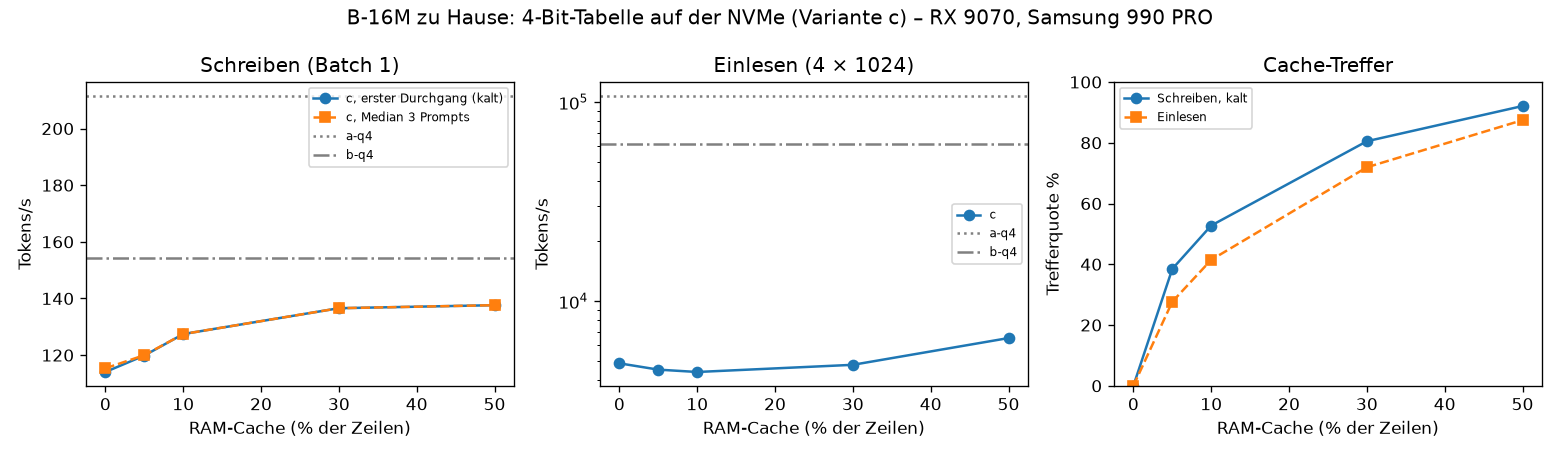
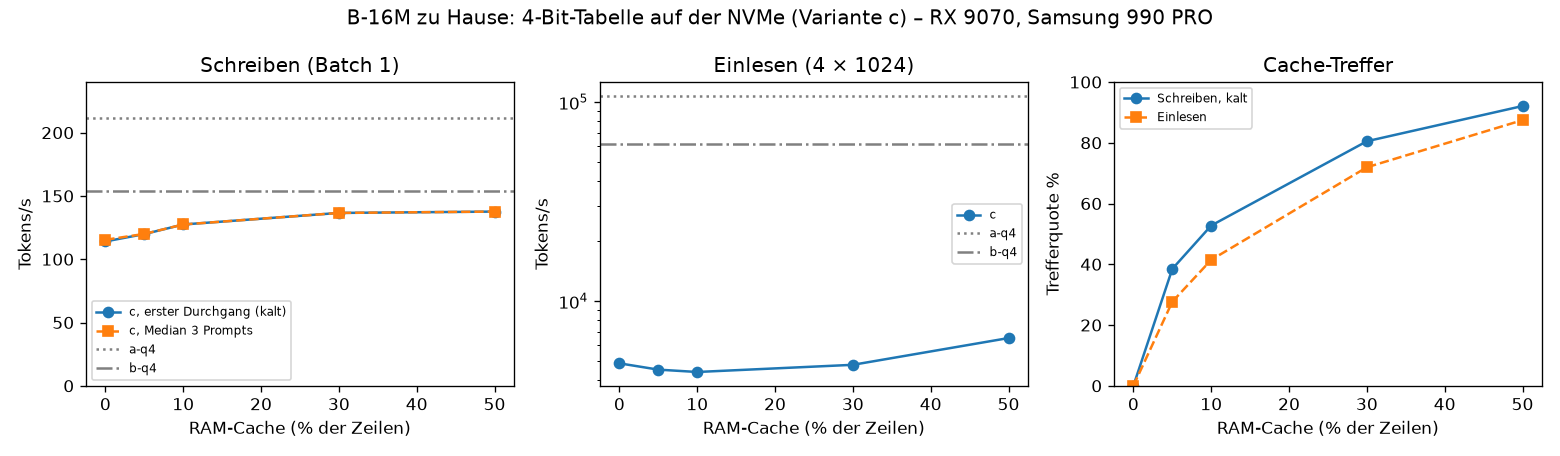
REPORT: step 2 results (B-16M at home: table in VRAM / RAM / NVMe)
Claude-Session: https://claude.ai/code/session_019qFk4hJ98tAkLc3kBY5njm

diff --git a/scripts/eval_qwen_general.py b/scripts/eval_qwen_general.py
@@ -1,0 +1,97 @@
+"""Step 3, "Schadet es?": general abilities of Qwen3.5-0.8B with and without the add-on.
+
+  .venv-qwen/bin/python scripts/eval_qwen_general.py --out report/qwen/general_Q.json
+  .venv-qwen/bin/python scripts/eval_qwen_general.py --addons runs/qwen/QT-s0/addons.pt --out report/qwen/general_QT.json
+
+1. Standard test (lm-evaluation-harness 0.4.13, zero-shot, accuracy; acc_norm where the harness reports it):
+   MMLU, ARC-Easy, ARC-Challenge, HellaSwag, PIQA, WinoGrande; --limit examples per task (the same first examples
+   for every model; MMLU: per subject).
+2. Chat: CHAT_PROMPTS (6 German, 6 English), Qwen chat template, non-thinking mode, greedy, 200 new tokens.
+   scripts/blind_chat.py later pairs the answers of two models in random order for a blinded judgement.
+"""
+import argparse
+import json
+import os
+import sys
+import time
+
+import torch
+
+ROOT = os.path.dirname(os.path.dirname(os.path.abspath(__file__)))
+sys.path.insert(0, ROOT)
+from smlm.qwen_memory import AddOnConfig, attach  # noqa: E402
+
+TASKS = ["mmlu", "arc_easy", "arc_challenge", "hellaswag", "piqa", "winogrande"]
+CHAT_PROMPTS = [
+    "Erkläre in drei Sätzen, wie eine Wärmepumpe funktioniert.",
+    "Wer war Johann Wolfgang von Goethe, und welche zwei Werke sind am bekanntesten?",
+    "Ein Zug fährt um 14:20 Uhr ab und braucht 2 Stunden 55 Minuten. Wann kommt er an?",
+    "Schreibe eine kurze, höfliche E-Mail, in der du einen Termin am Dienstag absagst.",
+    "Was ist der Unterschied zwischen Wetter und Klima?",
+    "Nenne drei wichtige Ereignisse des Jahres 2026.",
+    "What is the capital of Australia, and why is it not Sydney?",
+    "Write a Python function that returns the n-th Fibonacci number iteratively.",
+    "If all bloops are razzies and all razzies are lazzies, are all bloops lazzies? Explain briefly.",
+    "Summarize the causes of World War I in four bullet points.",
+    "Translate into German: 'The meeting was postponed because of the storm.'",
+    "What happened in the world in 2026? Name a few events you know about.",
+]
+
+
+def load(model_dir, addons):
+    from transformers import AutoModelForCausalLM, AutoTokenizer
+    model = AutoModelForCausalLM.from_pretrained(model_dir, dtype=torch.bfloat16).cuda().eval()
+    tok = AutoTokenizer.from_pretrained(model_dir)
+    if addons:
+        ck = torch.load(addons, map_location="cpu", weights_only=True)
+        attach(model, AddOnConfig(**ck["addon_cfg"]))
+        model.addons.load_state_dict(ck["state_dict"])
+        model.addons.eval()
+    return model, tok
+
+
+@torch.no_grad()
+def chat(model, tok, max_new=200):
+    out = []
+    for p in CHAT_PROMPTS:
+        text = tok.apply_chat_template([{"role": "user", "content": p}], tokenize=False, add_generation_prompt=True,
+                                       enable_thinking=False)
+        ids = tok(text, return_tensors="pt").input_ids.cuda()
+        with torch.autocast("cuda", dtype=torch.bfloat16):
+            gen = model.generate(ids, max_new_tokens=max_new, do_sample=False)
+        out.append({"prompt": p, "answer": tok.decode(gen[0, ids.shape[1]:], skip_special_tokens=True)})
+    return out
+
+
+def main():
+    ap = argparse.ArgumentParser()
+    ap.add_argument("--model_dir", default="/home/leon/smlm-models/Qwen3.5-0.8B")
+    ap.add_argument("--addons", default=None)
+    ap.add_argument("--limit", type=int, default=500)
+    ap.add_argument("--batch_size", type=int, default=16)
+    ap.add_argument("--tasks", default=",".join(TASKS))
+    ap.add_argument("--out", required=True)
+    args = ap.parse_args()
+    os.makedirs(os.path.dirname(os.path.abspath(args.out)), exist_ok=True)
+    t0 = time.time()
+    model, tok = load(args.model_dir, args.addons)
+    from lm_eval import simple_evaluate
+    from lm_eval.models.huggingface import HFLM
+    lm = HFLM(pretrained=model, tokenizer=tok, batch_size=args.batch_size)
+    with torch.autocast("cuda", dtype=torch.bfloat16):
+        res = simple_evaluate(model=lm, tasks=args.tasks.split(","), limit=args.limit, num_fewshot=0,
+                              bootstrap_iters=1000, log_samples=False)
+    keep = {}
+    for task, r in res["results"].items():
+        keep[task] = {k: v for k, v in r.items() if isinstance(v, (int, float)) and ("acc" in k)}
+    out = {"model_dir": args.model_dir, "addons": args.addons, "limit": args.limit, "tasks": keep,
+           "n_samples": res.get("n-samples"), "chat": chat(model, tok),
+           "seconds": round(time.time() - t0, 1), "lm_eval_version": __import__("lm_eval").__version__}
+    json.dump(out, open(args.out, "w"), indent=1, ensure_ascii=False)
+    for t in args.tasks.split(","):
+        r = keep.get(t, {})
+        print(t, {k: round(v, 4) for k, v in r.items()})
+
+
+if __name__ == "__main__":
+    main()

diff --git a/scripts/train_qwen_memory.py b/scripts/train_qwen_memory.py
@@ -54,9 +54,12 @@ def chunked_ce(hidden, weight, targets, chunk=2048):
     return total / t.numel()
 
 
+CE_CHUNK = 1024
+
+
 def forward_loss(model, x, y):
     hidden = model.model(input_ids=x).last_hidden_state
-    return chunked_ce(hidden, model.lm_head.weight, y)
+    return chunked_ce(hidden, model.lm_head.weight, y, chunk=CE_CHUNK)
 
 
 @torch.no_grad()
@@ -104,7 +107,11 @@ def main():
     ap.add_argument("--eval_windows", type=int, default=None, help="limit evaluation windows (probes)")
     ap.add_argument("--eval_only", action="store_true")
     ap.add_argument("--save", type=int, default=1)
+    ap.add_argument("--ce_chunk", type=int, default=1024, help="tokens per logits chunk in the loss")
+    ap.add_argument("--grad_ckpt", type=int, default=0, help="recompute the frozen Qwen layers in the backward pass")
     args = ap.parse_args()
+    global CE_CHUNK
+    CE_CHUNK = args.ce_chunk
     os.makedirs(args.out_dir, exist_ok=True)
     from transformers import AutoModelForCausalLM
 
@@ -118,6 +125,8 @@ def main():
     else:
         for p in model.parameters():
             p.requires_grad_(False)
+    if args.grad_ckpt:
+        model.gradient_checkpointing_enable(gradient_checkpointing_kwargs={"use_reentrant": False})
     meta = json.load(open(os.path.join(args.data_dir, "meta.json")))
     evals = {k: load_tokens(args.data_dir, k) for k in ("val_new", "val_known", "mem_probe")}
     info = {"status": "running", "args": vars(args), "addon_cfg": acfg.to_dict() if acfg else None,

diff --git a/scripts/summarize_offload.py b/scripts/summarize_offload.py
@@ -67,7 +67,7 @@ def main():
     for k, st in (("a-q4", ":"), ("b-q4", "-.")):
         if k in ref:
             ax[0].axhline(ref[k]["decode_tok_s_median"], ls=st, color="gray", label=f"{k}")
-    ax[0].set(xlabel="RAM-Cache (% der Zeilen)", ylabel="Tokens/s", title="Schreiben (Batch 1)")
+    ax[0].set(xlabel="RAM-Cache (% der Zeilen)", ylabel="Tokens/s", title="Schreiben (Batch 1)", ylim=(0, 240))
     ax[0].legend(fontsize=7)
     ax[1].plot(x, [r["prefill_tok_s_median"] for r in cs], "o-", label="c")
     for k, st in (("a-q4", ":"), ("b-q4", "-.")):

diff --git a/REPORT.md b/REPORT.md
@@ -1355,3 +1355,107 @@ FFN-Breite ist ≈ 8/3 · d, gerundet auf ein Vielfaches von 64 (wie A: 384 → 
 - **Seeds:** ein Seed je dichter Größe.
 - **Instabilität:** Wird ein großes Modell mit LR 6e-4 instabil (NaN bricht ab; eine Loss-Explosion ohne NaN
   ist in den Kurven sichtbar), wird das berichtet, nicht wiederholt.
+
+## Schritt 2: B-16M zu Hause – die Tabelle muss nicht im Grafikspeicher liegen (gemessen 2026-10-04)
+
+**Frage:** Lässt sich B-16M (Tabelle 16,8 M Zeilen × 384) auf einem normalen PC betreiben, wenn die Tabelle nicht im
+teuren Grafikspeicher liegt? Messung ohne Bestanden-Kriterium.
+
+**Rechner:**
+- GPU: RX 9070 (16 GB)
+- CPU: Ryzen 9 5900XT
+- RAM: 125 GB
+- NVMe: Samsung 990 PRO (`/home`)
+- Der Desktop lief mit ≈ 0,6–1 GB VRAM. Sonst lief nichts.
+
+**Vorbereitung:**
+- `scripts/convert_table.py` zerlegt den Cloud-Checkpoint in den kleinen Rest (`rest.pt`, 71 M Parameter) und die
+  Tabelle als flache Dateien: bf16 12,9 GB, 4 Bit 3,2 GB plus 32 MB Skalen.
+- Die 4-Bit-Quantisierung auf der CPU ist bitgleich mit `quantize_q4` auf der GPU (geprüft an 1 M Zeilen).
+
+**Varianten** (`smlm/offload.py`, `scripts/bench_offload.py`, ein Prozess je Variante):
+- **a) Tabelle im Grafikspeicher:** bf16 oder 4 Bit. Der Kernel liest direkt; Decode-Graphen sind möglich.
+- **b) Tabelle im RAM:** bf16, fp32 oder 4 Bit.
+  - Pro Speicherschicht und Aufruf gehen die gelesenen Zeilen-Indizes zur CPU.
+  - Die CPU sammelt die Zeilen in einen gepinnten Puffer, von dort gehen sie zur GPU.
+  - Dort läuft derselbe Kernel wie in a) auf der kompakten Tabelle.
+  - Das sind drei Hin- und Rückwege pro Token. Decode-Graphen sind dadurch nicht möglich.
+- **c) 4-Bit-Datei auf der NVMe:**
+  - Zugriff per mmap; Readahead ist aus (`MADV_RANDOM`).
+  - Fehlende Zeilen werden je Aufruf gesammelt mit `MADV_WILLNEED` angefordert.
+  - RAM-Cache: fest die im Training meistgelesenen x % der Zeilen, optional zusätzlich ein FIFO-Teil für zuletzt
+    verfehlte Zeilen.
+  - **Kalt:** Die Datei wird vorher ohne root mit `posix_fadvise(DONTNEED)` aus dem Seiten-Cache geworfen;
+    `fincore` bestätigt 0 Byte.
+  - **„Begrenzt“:** Der Prozess läuft in einer systemd-Scope mit `MemoryMax=4G`. Damit kann Linux die 3,2-GB-Datei
+    nicht ganz im Seiten-Cache halten. Gemessen hält die Scope 1,4–2,0 GB der Datei, `memory.current` bleibt bei
+    4,0 GB.
+
+**Messungen:**
+- **Schreiben (Batch 1):** greedy, 128-Token-Prompt + 256 neue Tokens, drei verschiedene Prompts; der erste ist
+  bei c) kalt.
+- **Einlesen:** 4 × 1024 Tokens Val-Text, Median über 3 Batches nach einem Aufwärm-Batch.
+- **Val-PPL:** auf dem ganzen Wikipedia-Val-Set (wie am Trainingsende, Batch 1) und auf den ersten 64 Fenstern
+  (für den Bitvergleich).
+
+**Ergebnisse** (`report/offload/*.json`, `report/offload_summary.json`, Grafik `report/offload_cache.png`):
+
+| Variante | Schreiben tok/s (ms/Token, 1. Prompt) | Einlesen tok/s | Cache-Treffer Schreiben / Einlesen | NVMe beim Einlesen | VRAM belegt (gesamt, mit Desktop) | RAM-Spitze (RSS) | Val-PPL ganz |
+|---|---|---|---|---|---|---|---|
+| a) bf16 im VRAM, mit Graphen | 216 (4,6) | 108.000 | – | – | 13,1 GB | 12,9 GB¹ | 19,9615 |
+| a) bf16, ohne Graphen | 171 (5,8) | 108.000 | – | – | | | |
+| a) 4 Bit im VRAM, mit Graphen | 212 (4,7) | 107.500 | – | – | 3,6 GB | 4,0 GB | 19,9795 |
+| a) 4 Bit, ohne Graphen | 173 (5,8) | 107.400 | – | – | | | |
+| b) bf16 im RAM | 139 (7,2) | 31.200 | – | – | 0,53 GB | 14,7 GB | 19,9615 |
+| b) fp32 im RAM | 143 (7,0) | 18.900 | – | – | 0,53 GB | 48,8 GB¹ | **19,9601** |
+| b) 4 Bit im RAM | 154 (6,5) | 61.700 | – | – | 0,53 GB | 5,0 GB | = a) 4 Bit² |
+| c) NVMe, ohne Cache | 114 (8,7) | 4.900 | 0 / 0 % | 57 k Lesezugriffe/s, 235 MiB/s | 0,53 GB | 5,1 GB³ | = a) 4 Bit² |
+| c) NVMe, Cache 5 % (155 MB) | 120 (8,3) | 4.500 | 38 / 28 % | 75 k/s | 0,53 GB | 5,3 GB³ | = a) 4 Bit² |
+| c) NVMe, Cache 10 % (310 MB) | 127 (7,8) | 4.400 | 53 / 41 % | 86 k/s | 0,53 GB | 5,5 GB³ | = a) 4 Bit² |
+| c) Cache 10 % + FIFO 20 % | 127 (7,8) | 4.500 | 73 / 52 % | 89 k/s | 0,53 GB | 6,1 GB³ | = a) 4 Bit² |
+| c) NVMe, Cache 30 % (930 MB) | 137 (7,3) | 4.800 | 80 / 72 % | 110 k/s, 469 MiB/s | 0,53 GB | 6,1 GB³ | 19,9795 |
+| c) NVMe, Cache 50 % (1,55 GB) | 138 (7,2) | 6.500 | 92 / 87 % | 111 k/s | 0,53 GB | 6,5 GB³ | = a) 4 Bit² |
+| c) Cache 10 %, **RAM begrenzt 4 GB** | 124 (8,0) | **1.500** | 53 / 41 % | 65 k/s | 0,53 GB | ≤ 4 GB (Scope) | = a) 4 Bit² |
+| c) Cache 30 %, **RAM begrenzt 4 GB** | 133 (7,5) | **2.600** | 80 / 72 % | 84 k/s | 0,53 GB | ≤ 4 GB (Scope) | = a) 4 Bit² |
+
+¹ Beim Laden: Datei bzw. Checkpoint wird einmal komplett gelesen. Bei b) fp32 zählen die gemappten
+Checkpoint-Seiten mit; die Tabelle selbst belegt 25,8 GB.
+² Auf den 64 Vergleichsfenstern **bitgleich** zu a) 4 Bit: gleiche NLL-Summe 205849,488. Das ganze Val-Set wurde
+nur für c) mit 30 % gerechnet und ergibt ebenfalls genau 19,9795.
+³ RSS enthält die gemappten Seiten der 4-Bit-Datei. Ohne RAM-Grenze lag die Datei am Ende zu 2–3 GB im
+Seiten-Cache von Linux.
+
+**Was das zeigt:**
+- **Qualität: gleich.**
+  - b) und c) rechnen bitgleich zu a) mit derselben Genauigkeit: bf16 19,9615 in a) und b); 4 Bit 19,9795 in
+    a), b) und c).
+  - Gegenüber fp32 aus der Cloud (19,9600) kostet bf16 +0,007 % und 4 Bit +0,10 %.
+  - fp32 aus dem RAM trifft den Cloud-Wert auf 0,001 % (19,9601). Der Rest ist die andere GPU.
+- **Wort für Wort schreiben geht ohne Tabelle im Grafikspeicher:**
+  - Aus dem RAM: 139–154 tok/s. Aus der NVMe: 114–138 tok/s, kalt und mit nur 4 GB RAM 124–133 tok/s.
+  - Mit der Tabelle im VRAM: 171–173 tok/s ohne Graphen, 212–216 mit Graphen.
+  - Der Abstand kommt vor allem von den drei CPU-Hin- und Rückwegen pro Token, nicht von der NVMe: Selbst ohne
+    jeden Cache verliert c) nur 18 % gegenüber RAM (114 gegenüber 139 tok/s).
+  - Der Grafikspeicher sinkt dabei von 13,1 bzw. 3,6 GB auf 0,53 GB.
+- **Lange Texte einlesen geht nur aus dem Grafikspeicher schnell:**
+
+  | Ort der Tabelle | Einlesen tok/s |
+  |---|---|
+  | VRAM | 108.000 |
+  | RAM | 19.000–62.000 (je nach Bytes pro Zeile) |
+  | NVMe | 4.400–6.500 |
+  | NVMe, RAM auf 4 GB begrenzt | 1.500–2.600 |
+
+  Beim Einlesen braucht jedes Token ≈ 270 verschiedene Zeilen. Jede verfehlte Zeile kostet eine 4-KB-Seite, also
+  21-mal mehr Daten als nötig. Die NVMe liefert dabei 57.000–111.000 Lesezugriffe/s, und das reicht nicht.
+- **Cache:** Die Trefferquoten sind so, wie aus den Trainingszugriffen vorhergesagt (30 % Cache → 80 % Treffer
+  beim Schreiben, vorhergesagt 79 %). Ein FIFO-Teil erhöht die Treffer, aber nicht das Tempo.
+
+**Grenzen:**
+- **Umfang:** Jede Variante wurde einmal gemessen, mit drei Prompts zu 256 Tokens und drei Einlese-Batches.
+- **Implementierung:** Die Lesewege sind in Python/NumPy geschrieben. Ein C-/io_uring-Pfad oder eine
+  Zeilenanordnung, die zusammen gelesene Zeilen auf dieselbe Seite legt, könnte das Einlesen von der NVMe
+  deutlich beschleunigen; das ist nicht gemessen.
+- **Was „kalt“ heißt:** Kalt bezieht sich nur auf den Seiten-Cache. Den festen RAM-Cache füllt das Programm beim
+  Start; das dauerte 0,7–8 s.
+- **Speicherbedarf beim Laden:** Die RAM-Spitzen von a) bf16 und b) fp32 enthalten das einmalige Einlesen.
